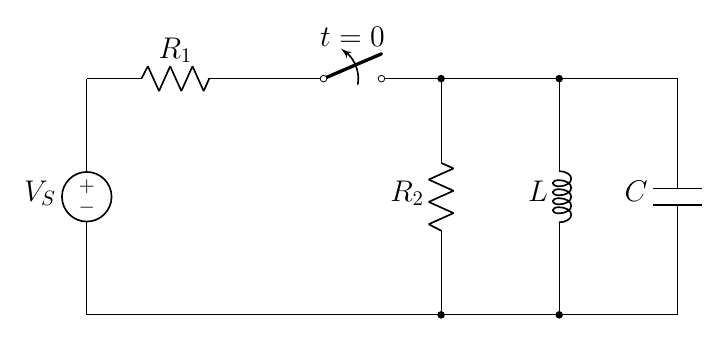
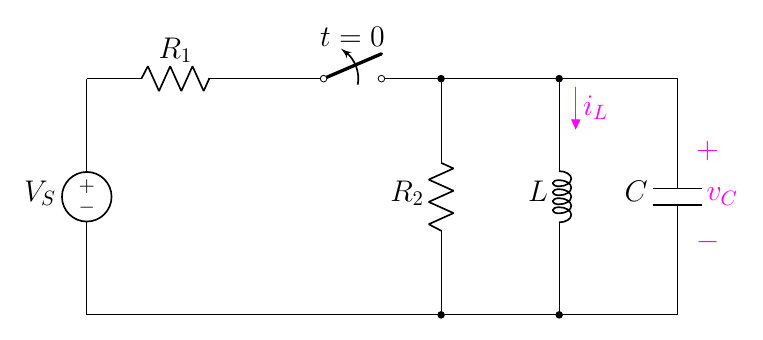
8.18

diff --git a/2.8 Underdamped/8.3.2 The Underdamp RLC Circuit/8.18(new).tex b/2.8 Underdamped/8.3.2 The Underdamp RLC Circuit/8.18(new).tex
@@ -31,9 +31,12 @@
         to[short] ++(2,0);
     %%% find %%%
     \node at(4.5,4.7) []{$t=0$};
-    % \draw[magenta](6.2,3)  
-    %     to[open,v^=$v_c(t)$] ++(0,-2);
-    % \draw[circuitikz/current arrow color=magenta](10,3)
-    % to[open,f>^=$\color{magenta}{i_l(t)}$] ++(0,-2.4);
+
+    \draw[magenta](10.2,3)  
+        to[open,v^=$v_C$] ++(0,-2);
+        
+    \draw[circuitikz/current arrow color=magenta](8,4)
+    to[open,f>^=$\color{magenta}{i_L}$] ++(0,-2.4);
+
 \end{circuitikz}
 \end{document}
